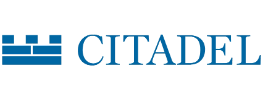
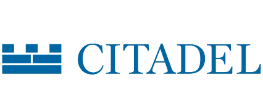
Update sponsors

Changed region(s): [[0.2738, 0.3438, 1.0, 0.7812], [0.0, 0.3438, 0.2433, 0.7812]]

diff --git a/index.html b/index.html
@@ -372,7 +372,7 @@
 				</div>
 				<div class="container" style="margin-top: -1em">
 					<div class="row 200%">
-						<div class="3u 12u$(medium)">
+						<div class="1u 12u$(medium)">
 							<br>
 						</div>
 						<div class="3u 12u$(medium)">
@@ -380,14 +380,19 @@
 								<span class="image fit" style="width: 100%"><a href="https://library.duke.edu/" target="_blank"><img src="images/sponsors/library.png" alt="" /></a></span>
 							</center>
 						</div>
+						<div class="4u 12u$(medium)">
+							<center>
+								<span class="image fit" style="width: 100%"><a href="https://guglhupf.com" target="_blank"><img src="images/sponsors/gug.png" alt="" /></a></span>
+							</center>
+						</div>
 						<div class="3u 12u$(medium)">
 							<center>
 								<span class="image fit" style="width: 100%"><a href="https://www.citadel.com" target="_blank"><img src="images/sponsors/citadel.png" alt="" /></a></span>
 							</center>
 						</div>
-					</div>
-					<div class="3u 12u$(medium)">
-						<br>
+						<div class="1u 12u$(medium)">
+							<br>
+						</div>
 					</div>
 				</div>
 				<!-- div class="container">
